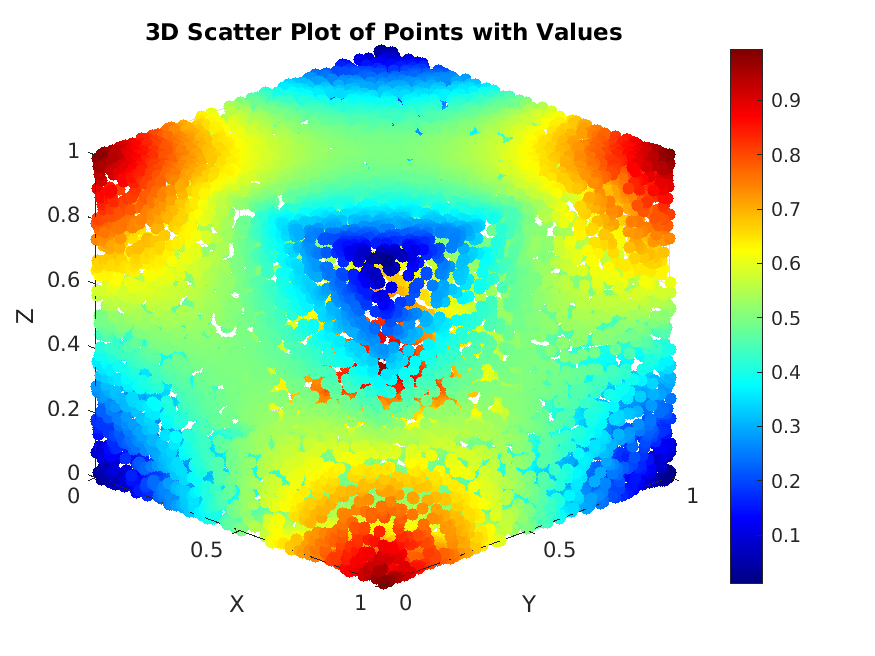
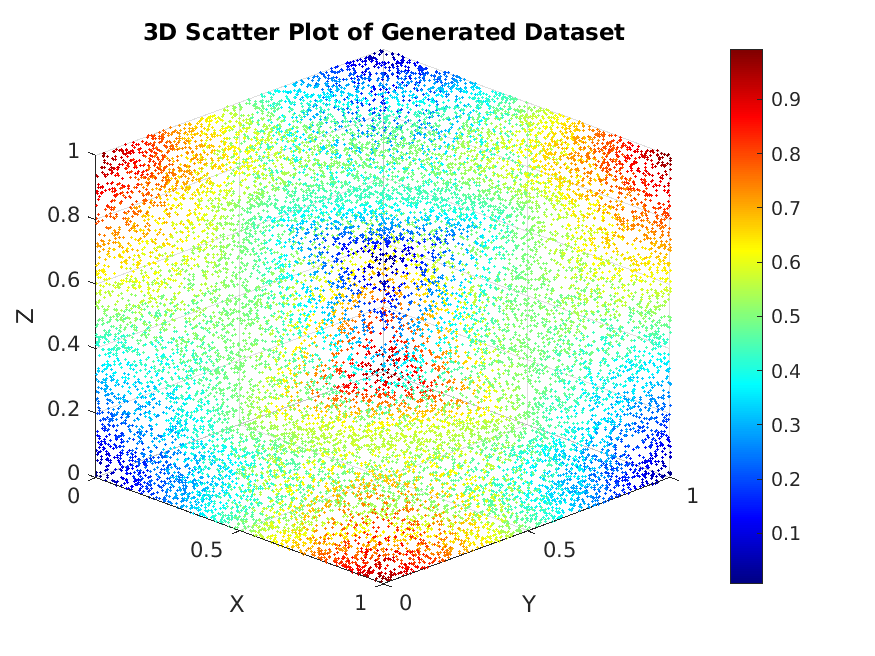
commit

diff --git a/Hybrid.Heat/ver1.0/src/visdataset.m b/Hybrid.Heat/ver1.0/src/visdataset.m
@@ -1,39 +1,39 @@
-% fid = fopen('../build/X.bin', 'rb');
-% Row = fread(fid, 1, 'uint32');
-% Col = fread(fid, 1, 'uint32');
-% A = fread(fid, [Row * Col], 'float32'); 
-% A = reshape(A, [Col, Row]);
-% A = permute(A, [2,1]);
+fid = fopen('../build/X.bin', 'rb');
+Row = fread(fid, 1, 'uint32');
+Col = fread(fid, 1, 'uint32');
+A = fread(fid, [Row * Col], 'float32'); 
+A = reshape(A, [Col, Row]);
+A = permute(A, [2,1]);
 
-% fid = fopen('../build/u.bin', 'rb');
-% Row = fread(fid, 1, 'uint32');
-% Col=1;
-% U = fread(fid, [Row * Col], 'float32'); 
-% U = reshape(U, [Col, Row]);
-% U = permute(U, [2,1]);
-
-
-% % Extract the x, y, z coordinates
-% x = A(:, 1);
-% y = A(:, 2);
-% z = A(:, 3);
-
-% % Create a 3D scatter plot
-% scatter3(x, y, z, 36, U, 'filled');
-
-% % Add labels and title
-% xlabel('X');
-% ylabel('Y');
-% zlabel('Z');
-% title('3D Scatter Plot of Points with Values');
-% colormap(jet);
-% % Add a colorbar to represent the values
-% colorbar;
+fid = fopen('../build/u.bin', 'rb');
+Row = fread(fid, 1, 'uint32');
+Col=1;
+U = fread(fid, [Row * Col], 'float32'); 
+U = reshape(U, [Col, Row]);
+U = permute(U, [2,1]);
 
 
-% % Adjust view angle (optional)
-% view(45, 25);
-% % saveas(gcf, '../out/main2_dataset.png')
+% Extract the x, y, z coordinates
+x = A(:, 1);
+y = A(:, 2);
+z = A(:, 3);
+
+% Create a 3D scatter plot
+scatter3(x, y, z, 2, U, 'filled');
+
+% Add labels and title
+xlabel('X');
+ylabel('Y');
+zlabel('Z');
+title('3D Scatter Plot of Generated Dataset');
+colormap(jet);
+% Add a colorbar to represent the values
+colorbar;
+
+
+% Adjust view angle (optional)
+view(45, 25);
+saveas(gcf, '../out/main2_dataset.png')
 
 
 % fid = fopen('../build/grid.bin', 'rb');
